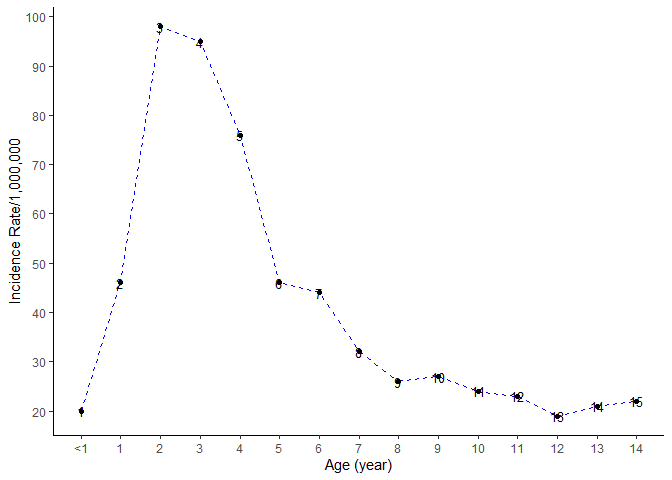
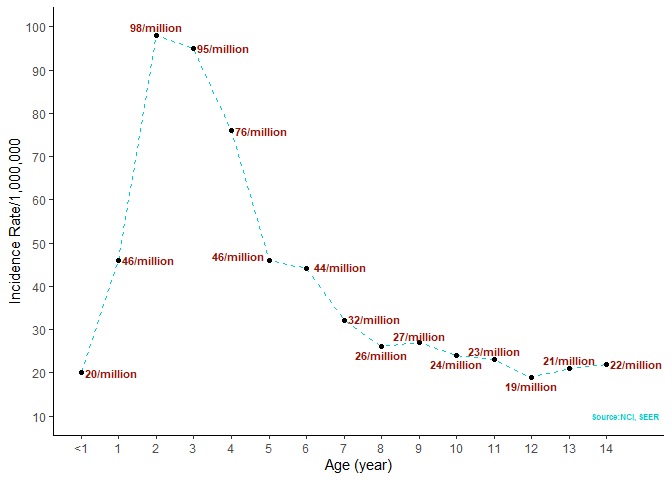
Figure 1 updated

diff --git a/Childhood_ALL_GWAS.md b/Childhood_ALL_GWAS.md
@@ -2,10 +2,17 @@
 
 ## Introduction
 
-<img src="Childhood_ALL_GWAS_files/figure-markdown_strict/unnamed-chunk-3-1.png" alt="Figure 1: Age-specific incidence rate in childhood ALL"  />
+<img src="Childhood_ALL_GWAS_files/figure-markdown_strict/unnamed-chunk-3-1.png" alt="Figure 1: Age-specific incidence rate in childhood ALL by single year of age-at-diagnosis"  />
 <p class="caption">
-Figure 1: Age-specific incidence rate in childhood ALL
+Figure 1: Age-specific incidence rate in childhood ALL by single year of
+age-at-diagnosis
 </p>
+
+Age-adjusted Surveillance, Epidemiology, and End Results
+cancer-incidence rates, 2006-2010, in childhood ALL, age 0-14 years.
+Incidence rates are per 1,000,000 per year and are age-adjusted to the
+United States standard population. Y-axis represents incidence rate per
+1,000,000 per year and X-axis represents age in years.
 
 ## Method
 
